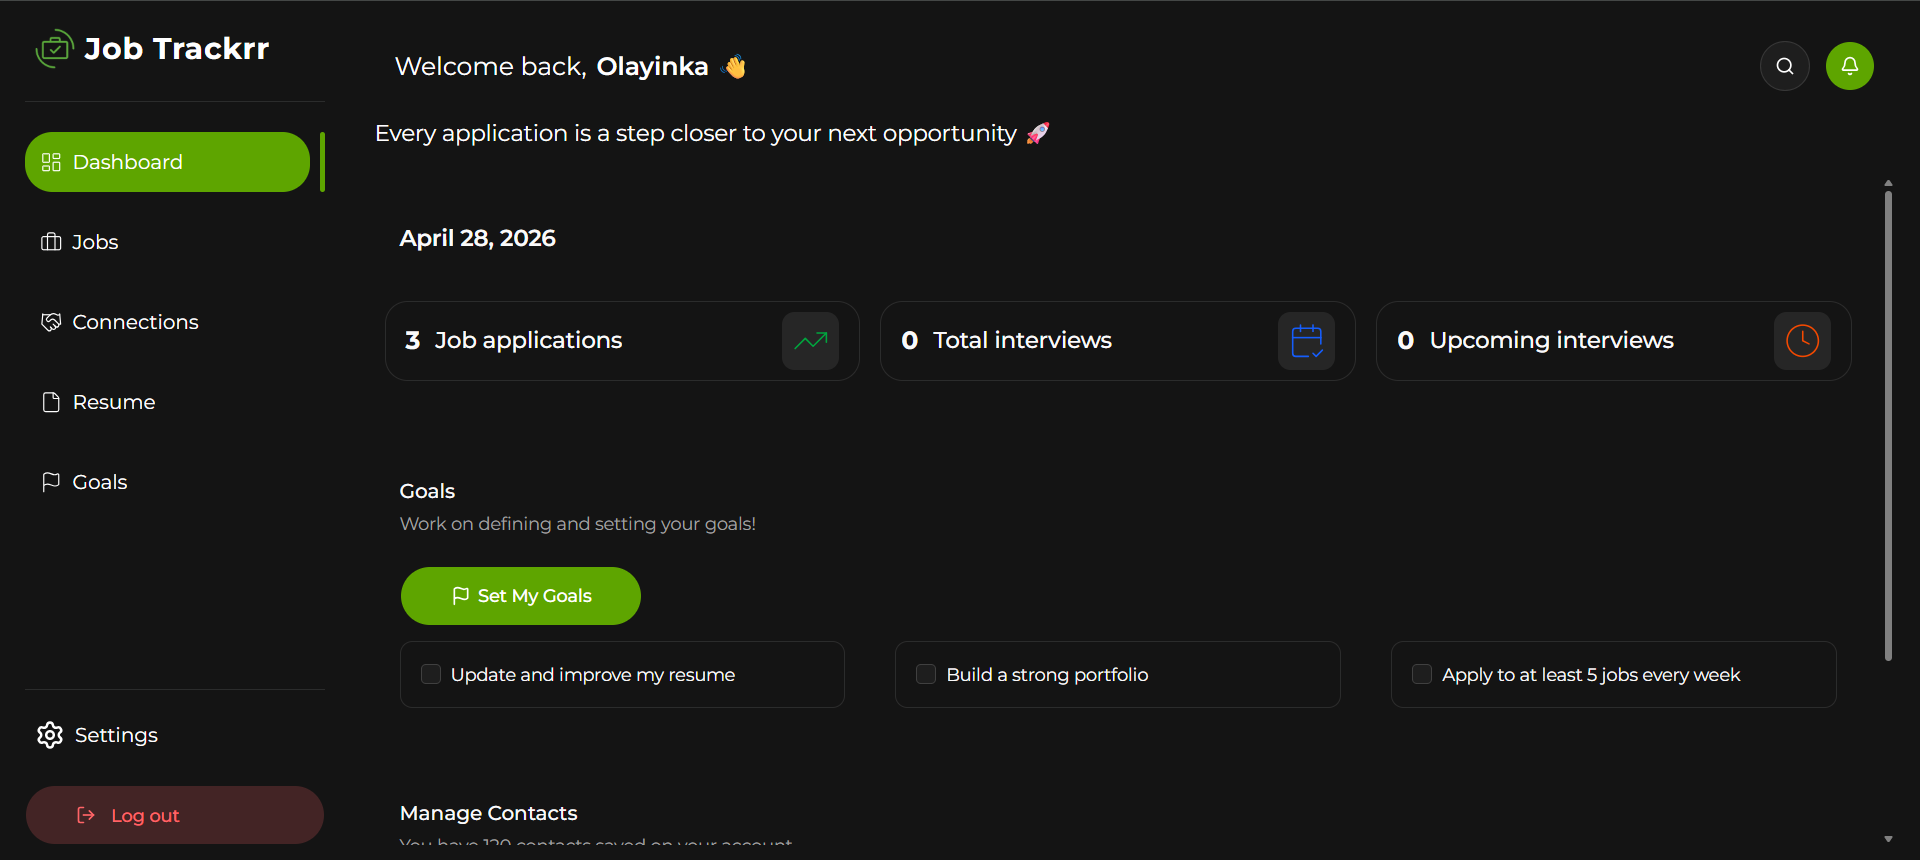
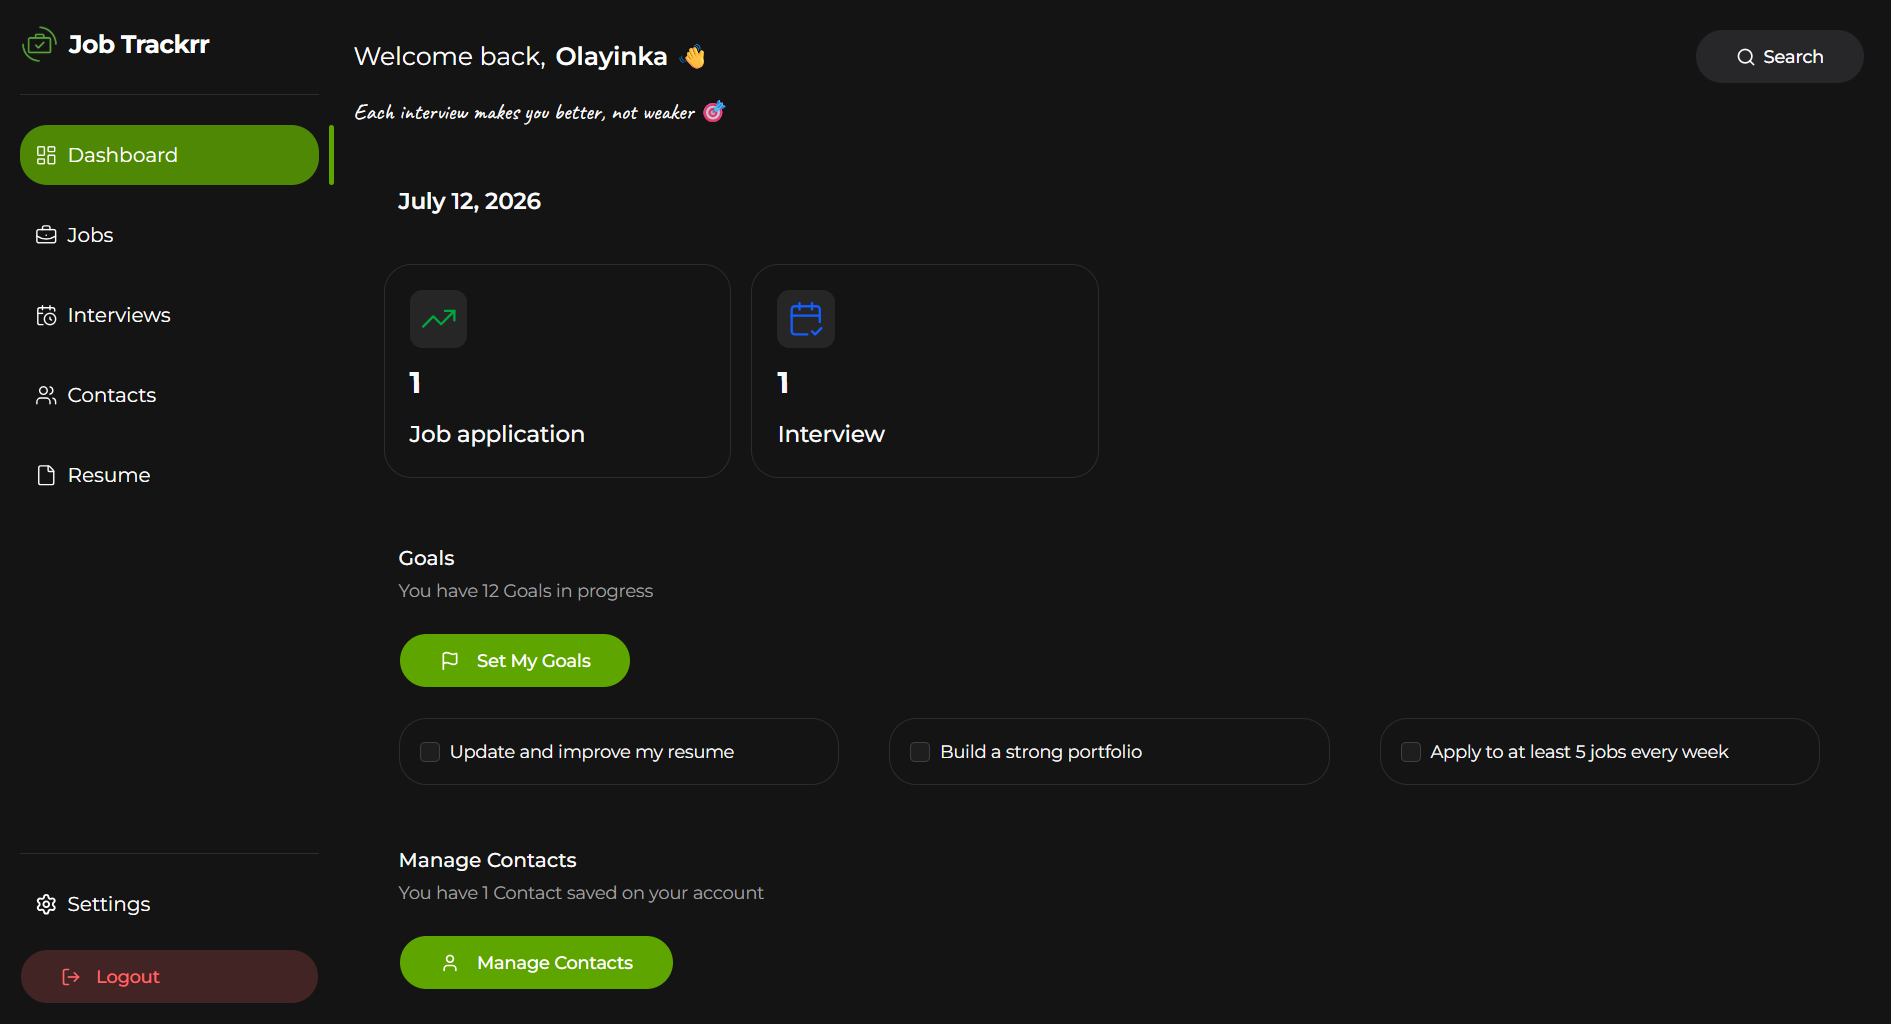
Zod validation fixes (#13)
* Update assets and styles; modify login and layout components

- Updated SVG image for resume with a new design.
- Changed binary files for dark and light screenshots.
- Updated CSS to replace font imports and adjust primary color.
- Cleaned up Login component by removing unnecessary whitespace.
- Commented out authentication checks in MainLayout for debugging.
- Adjusted styling in MainPgeSkeleton and JobPage for better UI consistency.

* fix: update googleLogin to include withCredentials and adjust API endpoint configuration

diff --git a/src/index.css b/src/index.css
@@ -1,4 +1,5 @@
-@import url("https://fonts.googleapis.com/css2?family=Inter:ital,opsz,wght@0,14..32,100..900;1,14..32,100..900&family=Montserrat:ital,wght@0,100..900;1,100..900&display=swap");
+/* @import url("https://fonts.googleapis.com/css2?family=Inter:ital,opsz,wght@0,14..32,100..900;1,14..32,100..900&family=Montserrat:ital,wght@0,100..900;1,100..900&display=swap"); */
+@import url("https://fonts.googleapis.com/css2?family=Caveat:wght@400..700&family=Inter:ital,opsz,wght@0,14..32,100..900;1,14..32,100..900&family=Montserrat:ital,wght@0,100..900;1,100..900&display=swap");
 @import "tailwindcss";
 @import "tw-animate-css";
 @import "shadcn/tailwind.css";
@@ -12,7 +13,7 @@
   --card-foreground: oklch(0.145 0 0);
   --popover: oklch(1 0 0);
   --popover-foreground: oklch(0.145 0 0);
-  --primary: #5ea500;
+  --primary: #284008;
   --primary-foreground: oklch(0.986 0.031 120.757);
   --secondary: oklch(0.967 0.001 286.375);
   --secondary-foreground: oklch(0.21 0.006 285.885);
@@ -49,7 +50,7 @@
   --card-foreground: oklch(0.985 0 0);
   --popover: oklch(0.205 0 0);
   --popover-foreground: oklch(0.985 0 0);
-  --primary: oklch(0.648 0.2 131.684);
+  --primary: #5ea500;
   --primary-foreground: oklch(0.986 0.031 120.757);
   --secondary: oklch(0.274 0.006 286.033);
   --secondary-foreground: oklch(0.985 0 0);
@@ -77,8 +78,8 @@
 }
 
 @theme inline {
-  --font-sans: "Montserrat", inter;
-  --font-heading: cursive;
+  --font-sans: "Montserrat", "Inter";
+  --font-heading: "Caveat";
   --color-sidebar-ring: var(--sidebar-ring);
   --color-sidebar-border: var(--sidebar-border);
   --color-sidebar-accent-foreground: var(--sidebar-accent-foreground);

diff --git a/src/modules/main/MainPgeSkeleton.tsx b/src/modules/main/MainPgeSkeleton.tsx
@@ -128,7 +128,7 @@ const PageHeaderSkeleton = ({ ctaWidth = "w-44" }: { ctaWidth?: string }) => (
 
 // shared row card: avatar + name/subtitle on left, meta on right
 const RowCardSkeleton = ({ withMeta = true }: { withMeta?: boolean }) => (
-  <div className="border border-zinc-200 rounded-3xl p-5 flex items-center justify-between">
+  <div className="rounded-3xl p-5 flex items-center justify-between">
     <div className="flex items-center gap-4">
       <Shimmer className="h-11 w-11 rounded-full" />
       <div className="flex flex-col gap-2">

diff --git a/src/modules/main/jobs/pages/JobPage.tsx b/src/modules/main/jobs/pages/JobPage.tsx
@@ -104,7 +104,7 @@ const JobPage = () => {
         </div>
 
         <div
-          className={`flex items-center gap-2 px-3 py-1.5 rounded-full border text-sm font-medium shrink-0 ${
+          className={`flex items-center gap-2 px-3 py-1.5 rounded-xl md:rounded-full border text-sm font-medium shrink-0 ${
             interviewIndicator.upcoming
               ? "border-primary/30 text-primary bg-primary/5"
               : "border-muted text-muted-foreground bg-muted/40"

diff --git a/src/shared/api/axios-config.ts b/src/shared/api/axios-config.ts
@@ -1,8 +1,8 @@
 import axios from "axios";
-import { prodEndpoint, } from "../constants/api-data";
+import { tempEndpoint } from "../constants/api-data";
 
 export const apiClient = axios.create({
-   baseURL: prodEndpoint,
+   baseURL: tempEndpoint,
    headers: {
       "Content-Type": "application/json",
    },

diff --git a/src/shared/constants/api-data.ts b/src/shared/constants/api-data.ts
@@ -1,4 +1,4 @@
 const testingEndpoint = "http://localhost:5050/api";
 const prodEndpoint = "https://job-trackrr.onrender.com/api";
-
-export { testingEndpoint, prodEndpoint };
+const tempEndpoint = "https://job-trackrr-backend.onrender.com/api"
+export { testingEndpoint, prodEndpoint, tempEndpoint };

diff --git a/src/modules/auth/pages/Login.tsx b/src/modules/auth/pages/Login.tsx
@@ -95,7 +95,6 @@ const Login = () => {
             <ForgetPassword />
           </div>
 
-
           <Button type="submit" size="lg" className="w-full" disabled={loading}>
             {loading ? (
               <>
